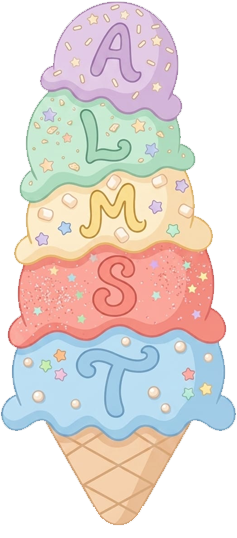
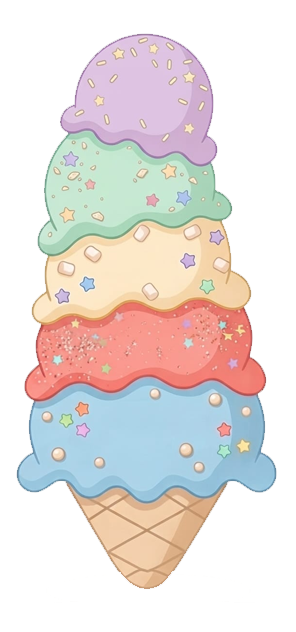
Add new background image 'fondo algter.png' to assets/imagenes

diff --git a/mundo1.html b/mundo1.html
@@ -3,7 +3,7 @@
 <head>
 	<meta charset="UTF-8">
 	<meta name="viewport" content="width=device-width, initial-scale=1.0">
-	<title>Mundo 1</title>
+	<title>Botón 1</title>
 	<style>
 		html,
 		body {
@@ -15,73 +15,90 @@
 			background: url("assets/imagenes/FONDOM1.jpg") center / cover no-repeat;
 		}
 
-		.menu {
-			position: absolute;
-			left: clamp(0.5rem, 3vw, 2.5rem);
+		.menu-panel {
+			position: fixed;
 			top: 50%;
-			width: clamp(155px, 24vw, 270px);
-			aspect-ratio: 235 / 530;
+			left: 5%;
+			z-index: 1;
+			width: clamp(168px, 36.75vmin, 367.5px);
 			transform: translateY(-50%);
 		}
 
-		.menu img {
+		.menu-panel img {
 			display: block;
 			width: 100%;
-			height: 100%;
-			object-fit: contain;
+			height: auto;
 		}
 
-		.menu-letter-button {
+		.menu-option {
 			position: absolute;
 			left: 50%;
-			width: 58%;
-			height: 15%;
+			width: 24%;
 			padding: 0;
 			border: 0;
-			border-radius: 50%;
 			background: transparent;
 			cursor: pointer;
-			transform: translateX(-50%);
+			transform: translate(-50%, -50%);
+			transition: transform 180ms ease, filter 180ms ease;
 		}
 
-		.menu-letter-button:hover,
-		.menu-letter-button:focus-visible {
-			outline: 3px solid rgba(255, 255, 255, 0.9);
-			outline-offset: 3px;
-			filter: brightness(1.12) drop-shadow(0 0 6px rgba(255, 255, 255, 0.8));
+		.menu-option:hover,
+		.menu-option:focus-visible {
+			z-index: 1;
+			transform: translate(-50%, -50%) scale(1.12);
+			filter: drop-shadow(0 0 5px rgba(0, 0, 0, 0.35));
 		}
 
-		.menu-letter-button[data-letter="a"] {
-			top: 10%;
+		.menu-option img {
+			display: block;
+			width: 100%;
+			height: auto;
 		}
 
-		.menu-letter-button[data-letter="m"] {
-			top: 28%;
+		.menu-option[data-option="a"] {
+			top: 14%;
 		}
 
-		.menu-letter-button[data-letter="s"] {
-			top: 45%;
+		.menu-option[data-option="l"] {
+			top: 29%;
+			left: 44%;
+			width: 19.2%;
 		}
 
-		.menu-letter-button[data-letter="t"] {
-			top: 63%;
+		.menu-option[data-option="m"] {
+			top: 42%;
+			width: 31.2%;
 		}
 
-		@media (max-width: 600px) {
-			.menu {
-				left: 0.35rem;
-				width: clamp(125px, 34vw, 190px);
-			}
+		.menu-option[data-option="s"] {
+			top: 56%;
+			width: 18%;
+		}
+
+		.menu-option[data-option="t"] {
+			top: 73%;
+			width: 31.2%;
 		}
 	</style>
 </head>
 <body>
-	<nav class="menu" aria-label="Menú del mundo 1">
-		<img src="assets/imagenes/MENUM1.png" alt="Menú con las letras A, M, S y T">
-		<button class="menu-letter-button" type="button" data-letter="a" aria-label="Letra A"></button>
-		<button class="menu-letter-button" type="button" data-letter="m" aria-label="Letra M"></button>
-		<button class="menu-letter-button" type="button" data-letter="s" aria-label="Letra S"></button>
-		<button class="menu-letter-button" type="button" data-letter="t" aria-label="Letra T"></button>
-	</nav>
+	<aside class="menu-panel" aria-label="Menú del mundo 1">
+		<img src="assets/imagenes/MENUM1.png" alt="">
+		<button class="menu-option" type="button" data-option="a" aria-label="A">
+			<img src="assets/imagenes/Abtn.png" alt="A">
+		</button>
+		<button class="menu-option" type="button" data-option="l" aria-label="L">
+			<img src="assets/imagenes/Lbtn.png" alt="L">
+		</button>
+		<button class="menu-option" type="button" data-option="m" aria-label="M">
+			<img src="assets/imagenes/Mbtn.png" alt="M">
+		</button>
+		<button class="menu-option" type="button" data-option="s" aria-label="S">
+			<img src="assets/imagenes/Sbtn.png" alt="S">
+		</button>
+		<button class="menu-option" type="button" data-option="t" aria-label="T">
+			<img src="assets/imagenes/Tbtn.png" alt="T">
+		</button>
+	</aside>
 </body>
 </html>
